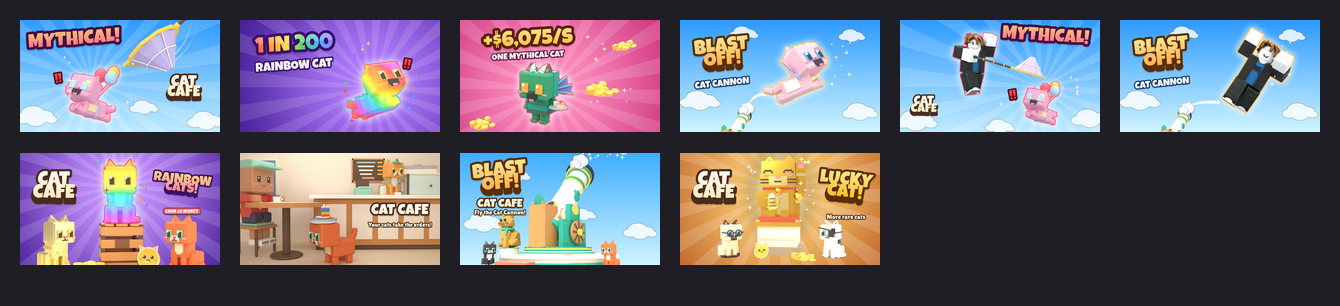
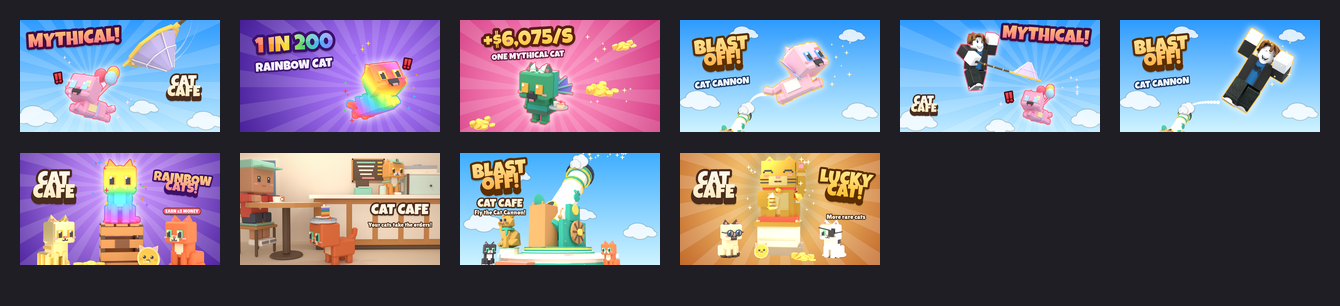
Store pictures N and O: faces placed the way Roblox places them
Derek (18:30) asked to see the faces up close. In N one eye hid under
the fringe and the fist covered the mouth. The face texture now sits on
the head as Roblox lays it (1.2 times the head, top aligned: eyes just
above the middle, mouth low), and N's head turns toward the camera.

Claude-Session: https://claude.ai/code/session_01QtKGL1YLRkWWbZ5eTJdLo8

Changed region(s): [[0.7037, 0.0588, 0.8261, 0.4118]]

diff --git a/docs/growth/store-art/2026-11-02-set3/README.md b/docs/growth/store-art/2026-11-02-set3/README.md
@@ -2,7 +2,7 @@
 
 Six 1920 x 1080 thumbnails built on Research-Agent's thumbnail study of 33 trending Roblox games (`/mnt/project-files/Research-Agent/thumbnail-study-2026-11-02.md` in the project files). What the study found and what these follow:
 
-- One big hero, 50 to 60% of the image height, caught mid-action with an open-mouthed reaction. Derek first chose a cat for the reacting hero (J to M). At 15:12 he asked for the trending games' other pattern too, a default-style Roblox player doing the game's action, and at 15:29 he picked the "bacon hair" default look the popular games use (not the yellow, blue and green one). At 16:30 he sent a reference picture of the real one, and at 16:51 asked that the renders use the actual Roblox avatar the way the front-page thumbnails do (Steal an Egg and others) rather than a look-alike. N and O now pose the real R6 default avatar: the classic head and R6 body in near-white, wearing Roblox's own catalog items Pal Hair (63690008), Blue and Black Motorcycle Shirt (144076358) and Dark Green Jeans (144076760), with the catalog faces The Winning Smile (616380929) on N and Laughing Fun (226217449) on O. The hair mesh and clothing templates were downloaded from Roblox for the render only; they are Roblox's files and are not stored in this repo.
+- One big hero, 50 to 60% of the image height, caught mid-action with an open-mouthed reaction. Derek first chose a cat for the reacting hero (J to M). At 15:12 he asked for the trending games' other pattern too, a default-style Roblox player doing the game's action, and at 15:29 he picked the "bacon hair" default look the popular games use (not the yellow, blue and green one). At 16:30 he sent a reference picture of the real one, and at 16:51 asked that the renders use the actual Roblox avatar the way the front-page thumbnails do (Steal an Egg and others) rather than a look-alike. N and O now pose the real R6 default avatar: the classic head and R6 body in near-white, wearing Roblox's own catalog items Pal Hair (63690008), Blue and Black Motorcycle Shirt (144076358) and Dark Green Jeans (144076760), with the catalog faces The Winning Smile (616380929) on N and Laughing Fun (226217449) on O. The face is laid on the head the way Roblox does it (the texture 1.2 times the head's size, top edge at the head's top, so the eyes sit just above the middle and the mouth low), and N's head turns toward the camera so the fringe and the fist leave the face clear (Derek 18:30 asked to see the faces up close). The hair mesh and clothing templates were downloaded from Roblox for the render only; they are Roblox's files and are not stored in this repo.
 - One big hook in the top third: a real rarity, real odds or a real income figure, in gold or rainbow gradient with a thick dark outline.
 - "CAT CAFE" only on the first image; at most 2 or 3 more words.
 - Warm cats on cool, flat backgrounds; a different rare cat on each image.
